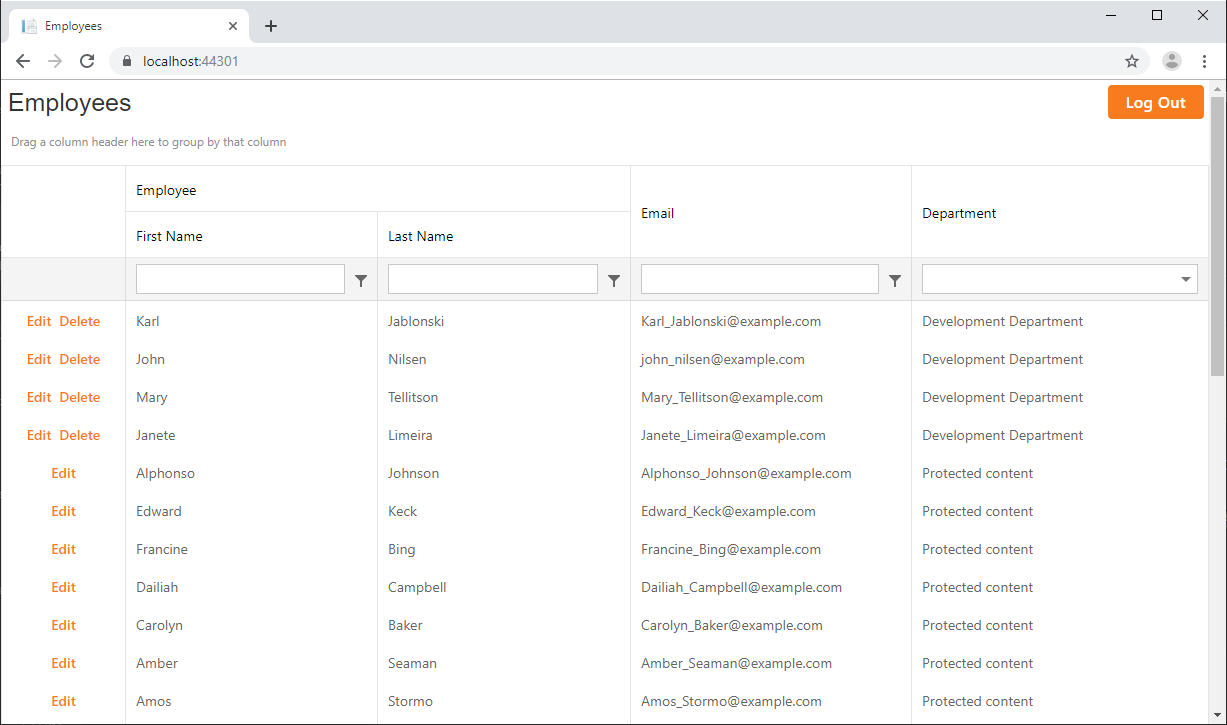
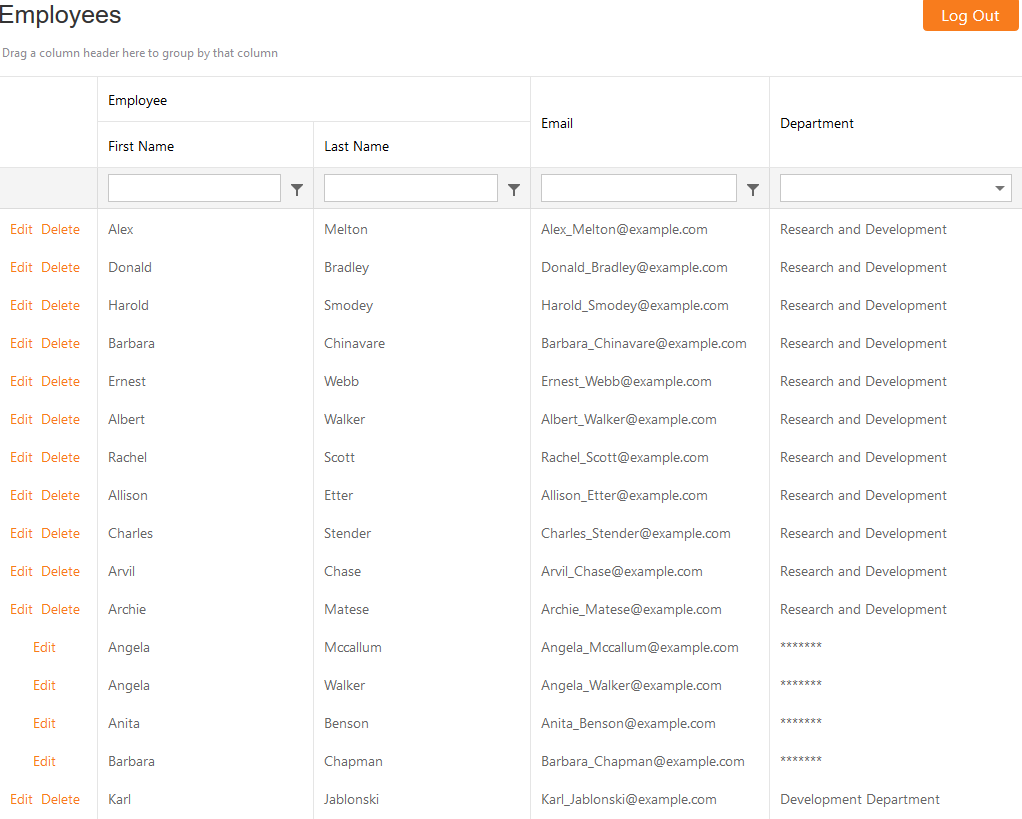
replace 'Protected content' with ******* (WebForms)

diff --git a/XPO/ASP.NET/WebForms/CS/Default.aspx.cs b/XPO/ASP.NET/WebForms/CS/Default.aspx.cs
@@ -43,7 +43,7 @@ namespace WebFormsApplication {
 			Employee employee = objectSpace.GetObjectByKey<Employee>(e.KeyValue);
             string memberName = GetMemberName(e.Column);
             if (!security.CanRead(employee, memberName)) {
-				e.Editor.Value = "Protected Content";
+				e.Editor.Value = "*******";
 				e.Editor.Enabled = false;
 			}
 			else if(!security.CanWrite(employee, memberName)) {
@@ -65,7 +65,7 @@ namespace WebFormsApplication {
 			Employee employee = objectSpace.GetObjectByKey<Employee>(e.KeyValue);
             string memberName = GetMemberName(e.DataColumn);
 			if(!security.CanRead(employee, memberName)) {
-				e.Cell.Text = "Protected content";
+				e.Cell.Text = "*******";
 			}
 		}
 		protected void LogoutButton_Click(object sender, EventArgs e) {

diff --git a/XPO/ASP.NET/WebForms/Readme.md b/XPO/ASP.NET/WebForms/Readme.md
@@ -150,13 +150,13 @@ Add [ASPxGridView](https://docs.devexpress.com/AspNet/DevExpress.Web.ASPxGridVie
 
   The Data Source contains only the data that is filtered based on security permissions, but we still have to handle protected data in UI. 
   In the [ASPxGridView\.HtmlDataCellPrepared](https://docs.devexpress.com/AspNet/DevExpress.Web.ASPxGridView.HtmlDataCellPrepared) 
-  event handler, display the 'Protected Content' placeholder instead of a default value returned by secured Data Source.  
+  event handler, display the '*******' placeholder instead of a default value returned by secured Data Source.  
   ```csharp
   protected void EmployeeGrid_HtmlDataCellPrepared(object sender, ASPxGridViewTableDataCellEventArgs e) {
       Employee employee = objectSpace.GetObjectByKey<Employee>(e.KeyValue);
       string memberName = GetMemberName(e.DataColumn);
       if(!security.CanRead(employee, memberName)) {
-          e.Cell.Text = "Protected content";
+          e.Cell.Text = "*******";
       }
   }
   private string GetMemberName(GridViewDataColumn column) {
@@ -184,14 +184,14 @@ Add [ASPxGridView](https://docs.devexpress.com/AspNet/DevExpress.Web.ASPxGridVie
 - Check Read and Write operations for editors in [Popup Edit Form](https://demos.devexpress.com/aspxgridviewdemos/gridediting/PopupEditForm.aspx)
 
   Handle the [ASPxGridView\.CellEditorInitialize](https://docs.devexpress.com/AspNet/DevExpress.Web.ASPxGridView.CellEditorInitialize) 
-  event to display the 'Protected Content' placeholder and disable editors based on security permissions.
+  event to display the '*******' placeholder and disable editors based on security permissions.
   
   ```csharp
   protected void EmployeeGrid_CellEditorInitialize(object sender, ASPxGridViewEditorEventArgs e) {
       Employee employee = objectSpace.GetObjectByKey<Employee>(e.KeyValue);
       string memberName = GetMemberName(e.Column);
       if(!security.CanRead(employee, memberName)) {
-          e.Editor.Value = "Protected Content";
+          e.Editor.Value = "*******";
           e.Editor.Enabled = false;
       }
       else if(!security.CanWrite(employee, memberName)) {
@@ -232,7 +232,7 @@ Add [ASPxGridView](https://docs.devexpress.com/AspNet/DevExpress.Web.ASPxGridVie
    
    ![](/images/WebForms_LoginPage.png)
 
- - Notice that secured data is displayed as 'Protected Content'.
+ - Notice that secured data is displayed as '*******'.
    ![](/images/WebForms_ListView.png)
 
  - Press the Logout button and log in under 'Admin' to see all records.
